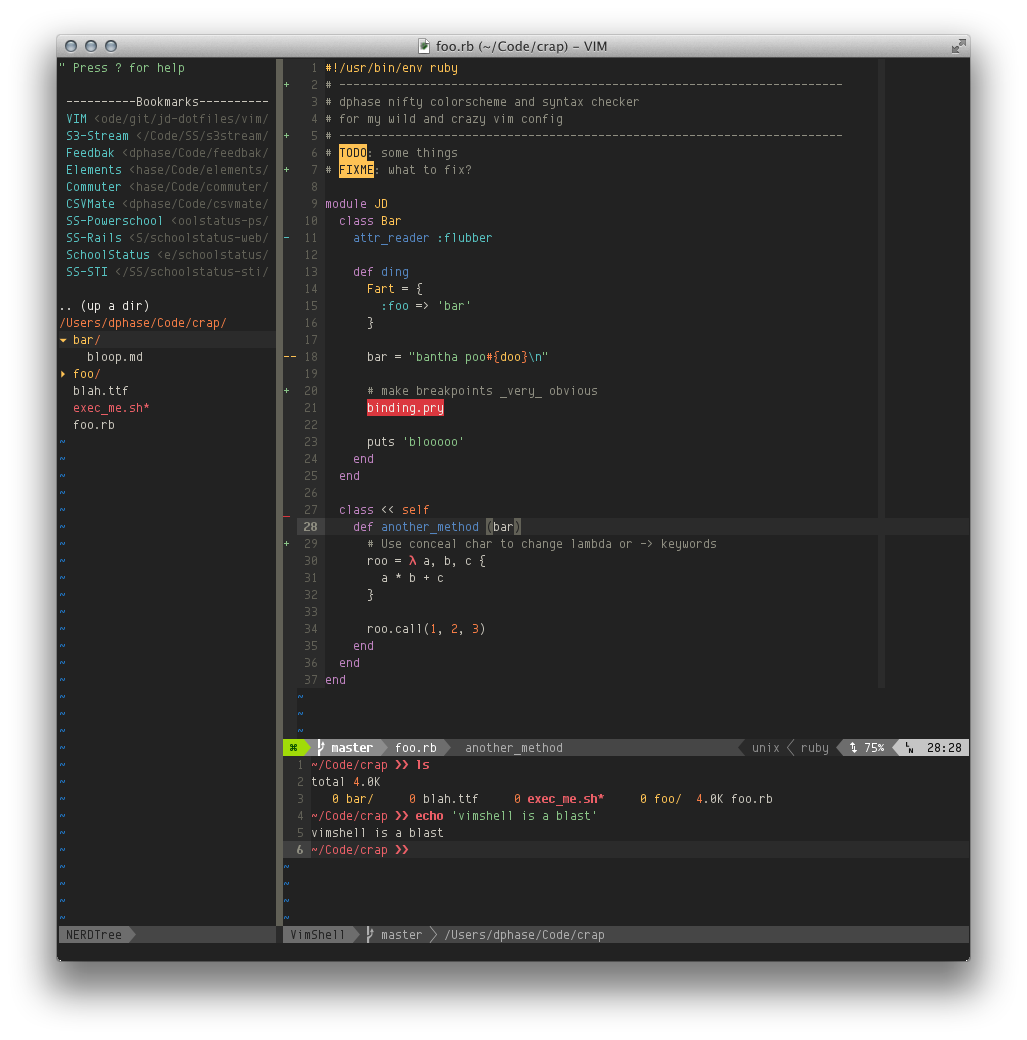
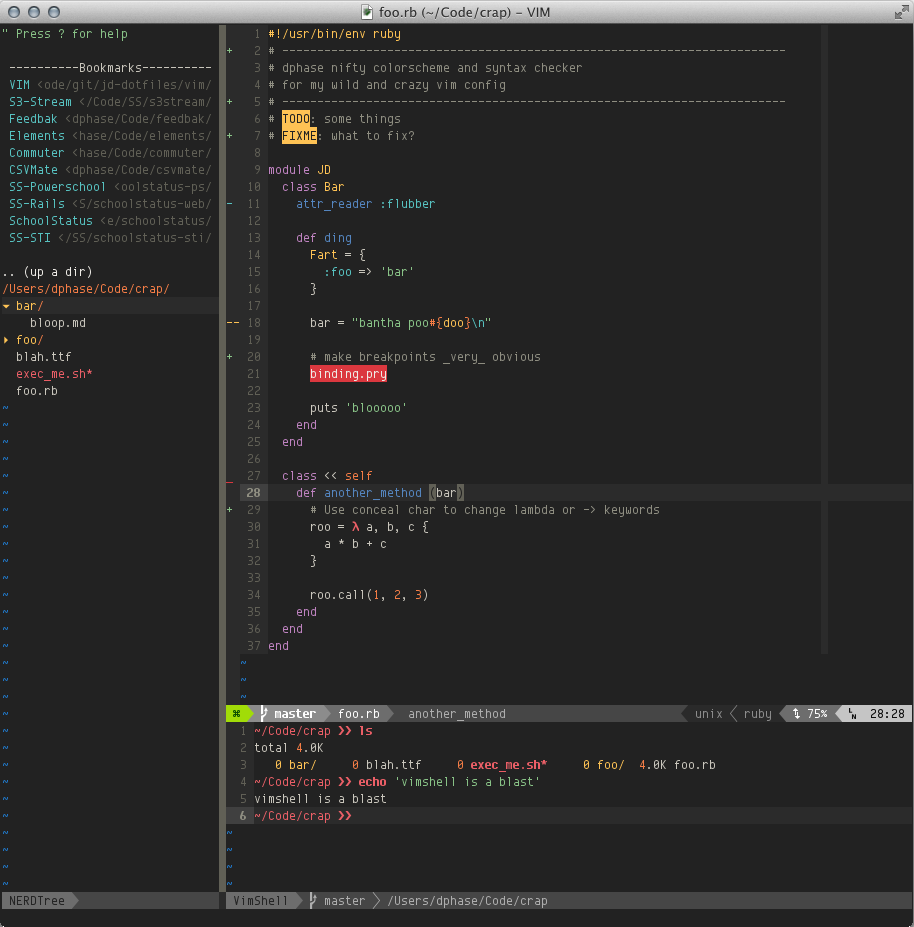
sync

diff --git a/README.md b/README.md
@@ -13,3 +13,9 @@
 ```
 
 ![screenshot](https://raw.github.com/dphase/dphase-vim/master/dphase-vim.png)
+
+For super-sharp font hint like the screenshot, set like so:
+
+```
+defaults write org.vim.MacVim AppleFontSmoothing -int 0
+```
